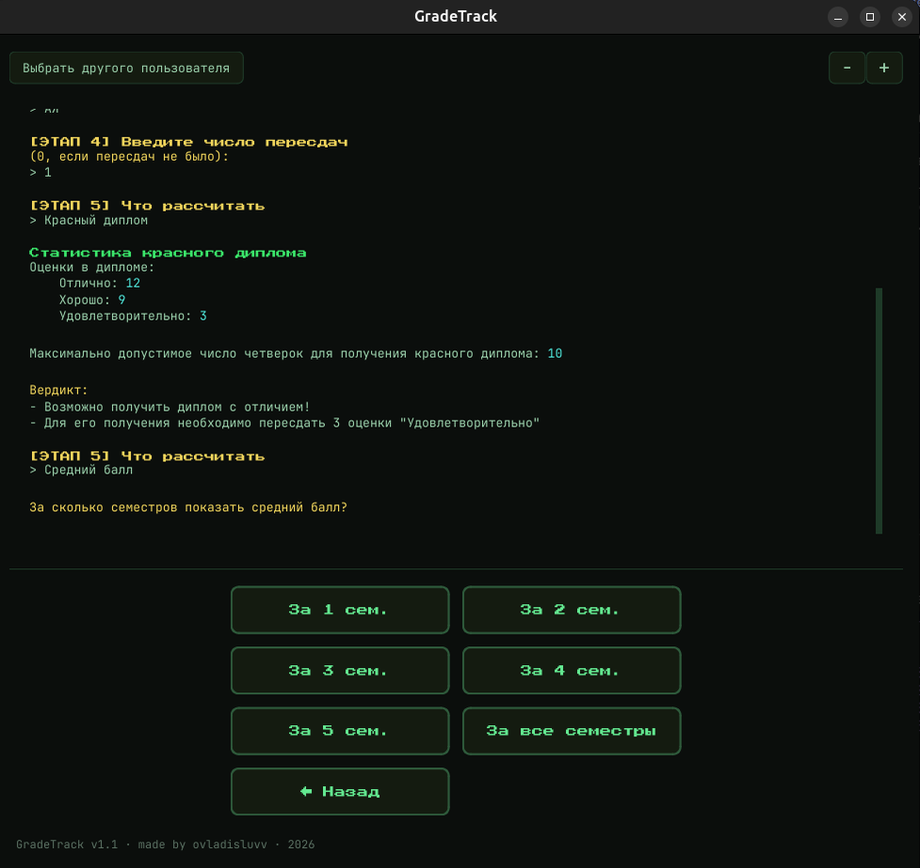
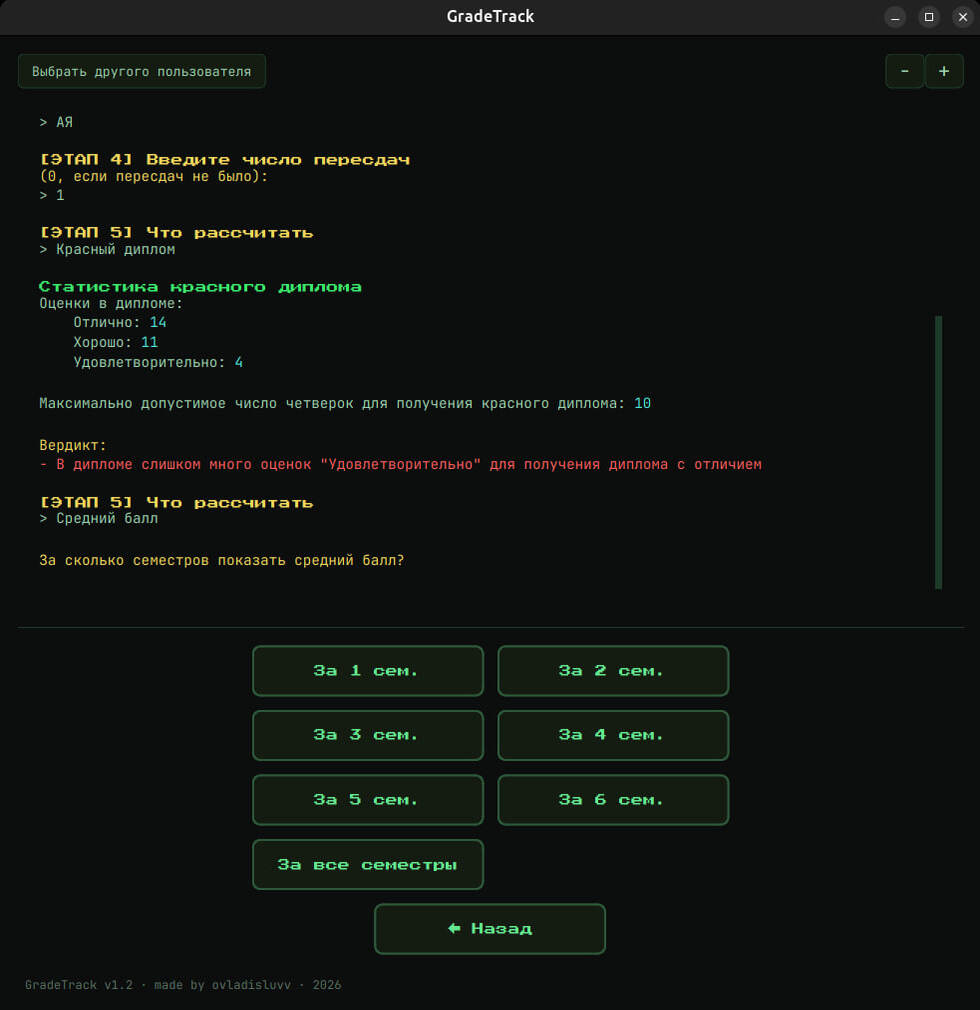
Update GUI and README for 1.2.0 version

diff --git a/src/gui/app.py b/src/gui/app.py
@@ -59,7 +59,7 @@ class MainWindow(QMainWindow):
 
         self.wizard = WizardView(central)
 
-        self.footer = QLabel("GradeTrack v1.1 · made by ovladisluvv · 2026", central)
+        self.footer = QLabel("GradeTrack v1.2 · made by ovladisluvv · 2026", central)
         self.footer.setObjectName("footer_label")
         self.footer.setAlignment(Qt.AlignmentFlag.AlignLeft | Qt.AlignmentFlag.AlignVCenter)
 

diff --git a/README.md b/README.md
@@ -24,6 +24,7 @@ GradeTrack авторизуется в личном кабинете МГУ (`lk
 * Два действия на выбор:
   * **Средний балл** - с указанием диапазона семестров
   * **Красный диплом** - статистика оценок диплома, максимально допустимое число четверок и вердикт о достижимости диплома с отличием
+* При выборе факультета **Другой** мастер сразу переходит к числу пересдач. Доступен только **Средний балл**, причем средний балл диплома не выводится
 * Логин и скрейпинг данных с портала выполняются в фоновом потоке, не блокируя интерфейс
 * Кнопка «← Назад» на каждом шаге и кнопка «Выбрать другого пользователя» для полного сброса сессии
 * Масштабирование текста терминала (Клавишами `+` и `−` или кнопками на экране)
